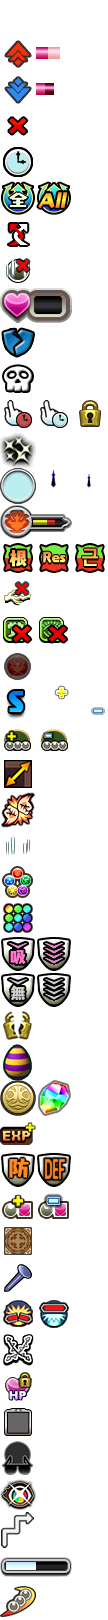
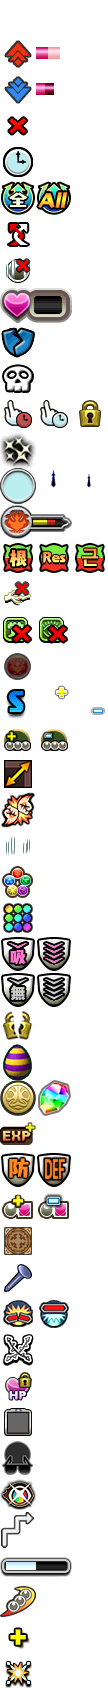
增加新技能解析

diff --git a/script-json_data.js b/script-json_data.js
@@ -136,6 +136,8 @@ let localTranslating = {
 			rate_multiply_drop: tp`${'icon'}Drop rate`,
 			rate_multiply_coin: tp`${'icon'}Coins`,
 			rate_multiply_exp: tp`${'icon'}Rank EXP`,
+			rate_multiply_plus_point: tp`${'icon'}Plus Point`,
+			rate_multiply_part_break: tp`${'icon'}Part Break Drop rate`,
 			reduce_damage: tp`${'condition'}${'chance'}${'icon'}Reduces ${'attrs'} damage taken by ${'value'}`,
 			power_up: tp`${'condition'}${'targets'}${'each_time'}${'value'}${'reduceDamage'}${'additional'}`,
 			power_up_targets: tp`[${'attrs_types'}]'s `, //attrs, types, attrs_types
@@ -3990,14 +3992,20 @@ const specialSearchFunctions = (function() {
 					addition:card=>{
 						const value = getSkillFixedDamage(card);
 						if (value <= 0 ) return;
-						let nodeArr = [`${value.bigNumberToString()}固伤`];
-						let skill;
-						if (skill = getCardLeaderSkill(card, [235])) {
-							nodeArr.push("/");
-							nodeArr.push(createOrbsList(Bin.unflags(skill.params[0])));
-							nodeArr.push(`×${skill.params[2]}`);
+						const fragment = document.createDocumentFragment();
+						
+						const icon = document.createElement("icon");
+						icon.className = "attr";
+						icon.setAttribute("data-attr-icon", "fixed");
+
+						fragment.append(icon, value.bigNumberToString());
+						let skill = getCardLeaderSkill(card, [235]);
+						if (skill) {
+							fragment.append("/",
+								createOrbsList(Bin.unflags(skill.params[0])),
+								`×${skill.params[2]}`);
 						}
-						return nodeArr.nodeJoin();
+						return fragment;
 					}
 				},
 				{name:"Adds combo",otLangName:{chs:"队长技+C",cht:"隊長技+C"},
@@ -4012,16 +4020,19 @@ const specialSearchFunctions = (function() {
 					addition:card=>{
 						const value = getSkillAddCombo(card);
 						if (value <= 0 ) return;
-						let nodeArr = [`+${value.bigNumberToString()}C`];
+						const fragment = document.createDocumentFragment();
+						fragment.append(createSkillIcon('add-combo'), value.bigNumberToString());
 						let skill;
 						if (skill = getCardLeaderSkill(card, [210])) {
-							nodeArr.push("/十字");
+							fragment.append("/十字");
 						} else if (skill = getCardLeaderSkill(card, [235])) {
-							nodeArr.push("/");
-							nodeArr.push(createOrbsList(Bin.unflags(skill.params[0])));
-							nodeArr.push(`×${skill.params[2]}`);
+							if (skill?.params?.[5]) {
+								fragment.append("/",
+									createOrbsList(Bin.unflags(skill.params[0])),
+									`×${skill.params[2]}`);
+							}
 						}
-						return nodeArr.nodeJoin();
+						return fragment;
 					}
 				},
 				{name:"Move time changes",otLangName:{chs:"队长技加/减秒",cht:"隊長技加/減秒"},
@@ -4037,7 +4048,12 @@ const specialSearchFunctions = (function() {
 						const skill = getCardLeaderSkill(card, searchTypeArray);
 						if (!skill) return;
 						const value = skill.params[0];
-						return `${value > 0 ? "+" : ""}${value/100}s`;
+						const fragment = document.createDocumentFragment();
+						fragment.append(createSkillIcon("status-time", value < 0 ? "time-decr" : "time-incr"),
+							value > 0 ? "+" : "-",
+							Math.abs(value/100),
+							"s");
+						return fragment;
 					}
 				},
 				{name:"Fixed move time",otLangName:{chs:"固定操作时间",cht:"固定操作時間"},
@@ -4053,7 +4069,11 @@ const specialSearchFunctions = (function() {
 						const skill = getCardLeaderSkill(card, searchTypeArray);
 						if (!skill) return;
 						const value = skill.params[0];
-						return `固定${value}s`;
+						const fragment = document.createDocumentFragment();
+						fragment.append(createSkillIcon("fixed-time"),
+							Math.abs(value),
+							"s");
+						return fragment;
 					}
 				},
 				{name:"Impart Awakenings",otLangName:{chs:"赋予觉醒",cht:"賦予覺醒"},
@@ -4195,54 +4215,103 @@ const specialSearchFunctions = (function() {
 						}).sort((a,b)=>sortByParams(a,b,searchTypeArray));
 					}
 				},
-				{name:"Increase item drop rate",otLangName:{chs:"增加道具掉落率",cht:"增加道具掉落率"},
-					function:cards=>{
-						const searchTypeArray = [53];
-						return cards.filter(card=>{
+				{group:true,name:"Increased drop rewards",otLangName:{chs:"增加掉落奖励",cht:"增加掉落獎勵"}, functions: [
+					{name:"Increase Item Drop rate",otLangName:{chs:"增加道具掉落率",cht:"增加道具掉落率"},
+						function:cards=>{
+							const searchTypeArray = [53];
+							return cards.filter(card=>{
+								const skill = getCardLeaderSkill(card, searchTypeArray);
+								return skill;
+							}).sort((a,b)=>sortByParams(a,b,searchTypeArray));
+						},
+						addition:card=>{
+							const searchTypeArray = [53];
 							const skill = getCardLeaderSkill(card, searchTypeArray);
-							return skill;
-						}).sort((a,b)=>sortByParams(a,b,searchTypeArray));
+							if (!skill) return;
+							const sk = skill.params;
+							const fragment = document.createDocumentFragment();
+							fragment.appendChild(createSkillIcon('rate-mul-drop'));
+							fragment.append(`x${sk[0]/100}`);
+							return fragment;
+						}
 					},
-					addition:card=>{
-						const searchTypeArray = [53];
-						const skill = getCardLeaderSkill(card, searchTypeArray);
-						if (!skill) return;
-						const sk = skill.params;
-						return `掉率x${sk[0]/100}`;
-					}
-				},
-				{name:"Increase coin rate",otLangName:{chs:"增加金币掉落倍数",cht:"增加金幣掉落倍數"},
-					function:cards=>{
-					const searchTypeArray = [54];
-					return cards.filter(card=>{
-						const skill = getCardLeaderSkill(card, searchTypeArray);
-						return skill;
-					}).sort((a,b)=>sortByParams(a,b,searchTypeArray));
-					},
-					addition:card=>{
+					{name:"Increase Coin rate",otLangName:{chs:"增加金币掉落倍数",cht:"增加金幣掉落倍數"},
+						function:cards=>{
 						const searchTypeArray = [54];
-						const skill = getCardLeaderSkill(card, searchTypeArray);
-						if (!skill) return;
-						const sk = skill.params;
-						return `金币x${sk[0]/100}`;
-					}
-				},
-				{name:"Increase Exp rate",otLangName:{chs:"增加经验获取倍数",cht:"增加經驗獲取倍數"},
-					function:cards=>{
-						const searchTypeArray = [148];
 						return cards.filter(card=>{
 							const skill = getCardLeaderSkill(card, searchTypeArray);
 							return skill;
 						}).sort((a,b)=>sortByParams(a,b,searchTypeArray));
+						},
+						addition:card=>{
+							const searchTypeArray = [54];
+							const skill = getCardLeaderSkill(card, searchTypeArray);
+							if (!skill) return;
+							const sk = skill.params;
+							const fragment = document.createDocumentFragment();
+							fragment.appendChild(createSkillIcon('rate-mul-coin'));
+							fragment.append(`x${sk[0]/100}`);
+							return fragment;
+						}
 					},
-					addition:card=>{
-						const searchTypeArray = [148];
-						const skill = getCardLeaderSkill(card, searchTypeArray);
-						if (!skill) return;
-						const sk = skill.params;
-						return `经验x${sk[0]/100}`;
-					}
-				},
+					{name:"Increase Exp rate",otLangName:{chs:"增加经验获取倍数",cht:"增加經驗獲取倍數"},
+						function:cards=>{
+							const searchTypeArray = [148];
+							return cards.filter(card=>{
+								const skill = getCardLeaderSkill(card, searchTypeArray);
+								return skill;
+							}).sort((a,b)=>sortByParams(a,b,searchTypeArray));
+						},
+						addition:card=>{
+							const searchTypeArray = [148];
+							const skill = getCardLeaderSkill(card, searchTypeArray);
+							if (!skill) return;
+							const sk = skill.params;
+							const fragment = document.createDocumentFragment();
+							fragment.appendChild(createSkillIcon('rate-mul-exp'));
+							fragment.append(`x${sk[0]/100}`);
+							return fragment;
+						}
+					},
+					{name:"Increase Plus Point rate",otLangName:{chs:"增加加蛋值掉落倍数",cht:"增加加蛋值掉落倍數"},
+						function:cards=>{
+						const searchTypeArray = [264];
+						return cards.filter(card=>{
+							const skill = getCardLeaderSkill(card, searchTypeArray);
+							return skill;
+						}).sort((a,b)=>sortByParams(a,b,searchTypeArray));
+						},
+						addition:card=>{
+							const searchTypeArray = [264];
+							const skill = getCardLeaderSkill(card, searchTypeArray);
+							if (!skill) return;
+							const sk = skill.params;
+							const fragment = document.createDocumentFragment();
+							fragment.appendChild(createSkillIcon('rate-mul-plus_point'));
+							fragment.append(`x${sk[0]/100}`);
+							return fragment;
+						}
+					},
+					{name:"Increase Part Break drop rate",otLangName:{chs:"增加部位破坏素材掉率",cht:"增加部位破壞素材掉率"},
+						function:cards=>{
+						const searchTypeArray = [265];
+						return cards.filter(card=>{
+							const skill = getCardLeaderSkill(card, searchTypeArray);
+							return skill;
+						}).sort((a,b)=>sortByParams(a,b,searchTypeArray));
+						},
+						addition:card=>{
+							const searchTypeArray = [265];
+							const skill = getCardLeaderSkill(card, searchTypeArray);
+							if (!skill) return;
+							const sk = skill.params;
+							const fragment = document.createDocumentFragment();
+							fragment.appendChild(createSkillIcon('rate-mul-part_break'));
+							fragment.append(`x${sk[0]/100}`);
+							return fragment;
+						}
+					},
+				]},
 			]},
 			{group:true,name:"HP Scale",otLangName:{chs:"血倍率",cht:"血倍率"}, functions: [
 				{name:"HP Scale [3, ∞)",otLangName:{chs:"队长血倍率[2, ∞)",cht:"隊長血倍率[2, ∞)"},

diff --git a/service-worker.js b/service-worker.js
@@ -41355,11 +41355,11 @@ const cachesMap = new Map([
 	],
 	[
 		"script-json_data.js",
-		"d9d76afeaa0a4ba4ac94e106cf2117e2"
+		"93003bbb7ee2d688ed4e68b21d39a53f"
 	],
 	[
 		"script-skill-parser.js",
-		"1747fe828fc25e0394f82245eccca5c7"
+		"7b4700be7e38bbfdddfe90e251103675"
 	],
 	[
 		"script-universal_function.js",
@@ -41383,7 +41383,7 @@ const cachesMap = new Map([
 	],
 	[
 		"style.css",
-		"0548eea7ac972f4bac0ffebf384a51e5"
+		"16b834eb40e460324cdf9c3f2fcfe0b8"
 	],
 	[
 		"temp.js",
@@ -41427,7 +41427,7 @@ const cachesMap = new Map([
 	],
 	[
 		"languages/zh-hans.js",
-		"8552840a3934a8eee0d0e001419036d9"
+		"68e8eca512a164fab743ed6b455d8ab6"
 	],
 	[
 		"languages/zh-hant.css",
@@ -41435,7 +41435,7 @@ const cachesMap = new Map([
 	],
 	[
 		"languages/zh-hant.js",
-		"3f4938a03f1d14544bd9da895126ed6c"
+		"b046584b6338fd1e0f7f93108e0dd16f"
 	],
 	[
 		"images/attrs.png",
@@ -41587,7 +41587,7 @@ const cachesMap = new Map([
 	],
 	[
 		"images/icon-skills.png",
-		"9b5c57a64636cbfddffbb4549f5e6035"
+		"66cc711b4a07f80bb869650ccdb23eec"
 	],
 	[
 		"images/icon-switch-leader.png",

diff --git a/languages/zh-hans.js b/languages/zh-hans.js
@@ -119,8 +119,10 @@ const _localTranslating = {
 			set_orb_state_nail: tp`${'orbs'}增加${'value'}${'icon'}钉子状态`,
 			rate_multiply: tp`作为队长进入地下城时，${'rate'}变为${'value'}`,
 			rate_multiply_drop: tp`${'icon'}怪物蛋掉落率`,
-			rate_multiply_coin: tp`${'icon'}金币掉落率`,
+			rate_multiply_coin: tp`${'icon'}金币倍率`,
 			rate_multiply_exp: tp`${'icon'}等级经验倍率`,
+			rate_multiply_plus_point: tp`${'icon'}加蛋值倍率`,
+			rate_multiply_part_break: tp`${'icon'}部位破坏素材掉率`,
 			reduce_damage: tp`${'condition'}受到的${'attrs'}伤害${'chance'}${'icon'}减少${'value'}`,
 			power_up: tp`${'condition'}${'targets'}${'target'}${'each_time'}${'value'}${'reduceDamage'}${'additional'}`,
 			power_up_targets: tp`${'attrs_types'}的 `,

diff --git a/languages/zh-hant.js b/languages/zh-hant.js
@@ -119,8 +119,10 @@ const _localTranslating = {
 			set_orb_state_nail: tp`${'orbs'}增加${'value'}${'icon'}釘子狀態`,
 			rate_multiply: tp`作為隊長進入地下城時，${'rate'}變為${'value'}`,
 			rate_multiply_drop: tp`${'icon'}怪物蛋掉落率`,
-			rate_multiply_coin: tp`${'icon'}金幣掉落率`,
+			rate_multiply_coin: tp`${'icon'}金幣倍率`,
 			rate_multiply_exp: tp`${'icon'}等級經驗倍率`,
+			rate_multiply_plus_point: tp`${'icon'}加蛋值倍率`,
+			rate_multiply_part_break: tp`${'icon'}部位破壞素材掉率`,
 			reduce_damage: tp`${'condition'}受到的${'attrs'}傷害${'chance'}${'icon'}減少${'value'}`,
 			power_up: tp`${'condition'}${'targets'}${'target'}${'each_time'}${'value'}${'reduceDamage'}${'additional'}`,
 			power_up_targets: tp`${'attrs_types'}的 `,

diff --git a/style.css b/style.css
@@ -1889,13 +1889,15 @@ label[for="search-string"] {
 }
 .awoken-preview .awoken-icon,
 .custom-addition .awoken-icon,
-.custom-addition .type-icon
+.custom-addition .type-icon,
+.custom-addition .attr
 {
 	filter: unset;
 	transform: scale(0.75);
 	margin: calc(-32px * (1 - 0.75) / 2);
 }
-.custom-addition .board .orb {
+.custom-addition .board .orb
+ {
 	filter: unset;
 	transform: scale(0.5);
 	margin: calc(-36px * (1 - 0.5) / 2);
@@ -5060,4 +5062,13 @@ body.external-link-support #external-support{
 }
 :lang(ko) .icon-skill[data-icon-type="resolve"] {
 	background-position-x: calc(-36px * 2);
+}
+
+.icon-skill[data-icon-type="rate-mul-plus_point"]
+{
+	background-position-y:calc(-36px * 45);
+}
+.icon-skill[data-icon-type="rate-mul-part_break"]
+{
+	background-position-y:calc(-36px * 46);
 }

diff --git a/script-skill-parser.js b/script-skill-parser.js
@@ -1736,6 +1736,8 @@ const skillObjectParsers = {
 			increaseDamageCapacity(cap * 1e8, void 0, Bin.unflags(attr), Bin.unflags(type))
 		);
 	},
+	[264](mul) { return rateMultiply(v.percent(mul), 'plus_point'); },
+	[265](mul) { return rateMultiply(v.percent(mul), 'part_break'); },
 	[1000](type, pos, ...ids) {
 		const posType = (type=>{
 			switch (type) {
